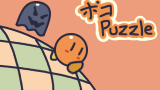
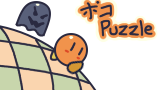
custom title bg color

diff --git a/core/src/main/java/com/distraction/glj9/screens/TitleScreen.java b/core/src/main/java/com/distraction/glj9/screens/TitleScreen.java
@@ -4,11 +4,13 @@ import com.badlogic.gdx.Gdx;
 import com.badlogic.gdx.Input;
 import com.badlogic.gdx.graphics.Color;
 import com.badlogic.gdx.graphics.g2d.TextureRegion;
+import com.distraction.glj9.Constants;
 import com.distraction.glj9.Context;
 import com.distraction.glj9.tile.Button;
 
 public class TitleScreen extends Screen {
 
+    private final TextureRegion pixel;
     private final TextureRegion bg;
 
     private final Button[] buttons;
@@ -16,6 +18,7 @@ public class TitleScreen extends Screen {
     public TitleScreen(Context context) {
         super(context);
 
+        pixel = context.getPixel();
         bg = context.getImage("titlescreen");
 
         buttons = new Button[] {
@@ -86,6 +89,8 @@ public class TitleScreen extends Screen {
     public void render() {
         sb.begin();
         sb.setProjectionMatrix(cam.combined);
+        sb.setColor(Constants.SKY);
+        sb.draw(pixel, 0, 0, Constants.WIDTH, Constants.HEIGHT);
         sb.setColor(Color.WHITE);
         sb.draw(bg, 0, 0);
         for (Button b : buttons) b.render(sb);

diff --git a/core/src/main/java/com/distraction/glj9/screens/SettingsScreen.java b/core/src/main/java/com/distraction/glj9/screens/SettingsScreen.java
@@ -103,8 +103,8 @@ public class SettingsScreen extends Screen {
         time += dt;
         in.update(dt);
         out.update(dt);
-        if (in.started() || in.isFinished()) a += 2 * dt;
-        if (out.started() || out.isFinished()) a -= 2 * dt;
+        if (in.started() || in.isFinished()) a += 3 * dt;
+        if (out.started() || out.isFinished()) a -= 7 * dt;
         a = MathUtils.clamp(a, 0, 0.7f);
     }
 

diff --git a/core/src/main/java/com/distraction/glj9/screens/PlayScreen.java b/core/src/main/java/com/distraction/glj9/screens/PlayScreen.java
@@ -17,7 +17,7 @@ public class PlayScreen extends Screen {
     private static final Interpolation CAM_START_INTERPOLATION = Interpolation.fastSlow;
 
     private static final float CAMERA_PAD = 4f;
-    private static final float CAMERA_SPEED = 60;
+    private static final float CAMERA_SPEED = 150;
 
     private final TileMap tileMap;
     private final Background bg;

diff --git a/core/src/main/java/com/distraction/glj9/Constants.java b/core/src/main/java/com/distraction/glj9/Constants.java
@@ -74,5 +74,6 @@ public class Constants {
     public static final Color WHITE = COLORS[7];
     public static final Color PINK = COLORS[26];
     public static final Color DARK_RED = COLORS[14];
+    public static final Color SKY = COLORS[31];
     public static final Color TRANSPARENT = new Color(1, 1, 1, 0.5f);
 }

diff --git a/core/src/main/java/com/distraction/glj9/screens/Transition.java b/core/src/main/java/com/distraction/glj9/screens/Transition.java
@@ -53,8 +53,6 @@ public class Transition {
         this.callback = callback;
 
         pixel = context.getPixel();
-
-        System.out.println("new transition created");
     }
 
     public void setCallback(SimpleCallback callback) {
